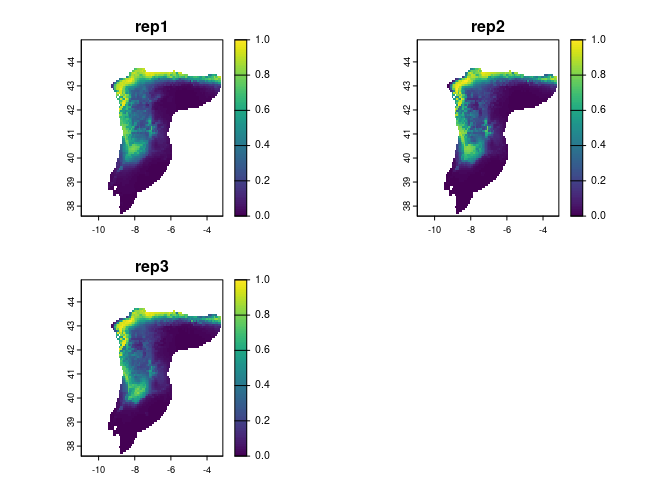
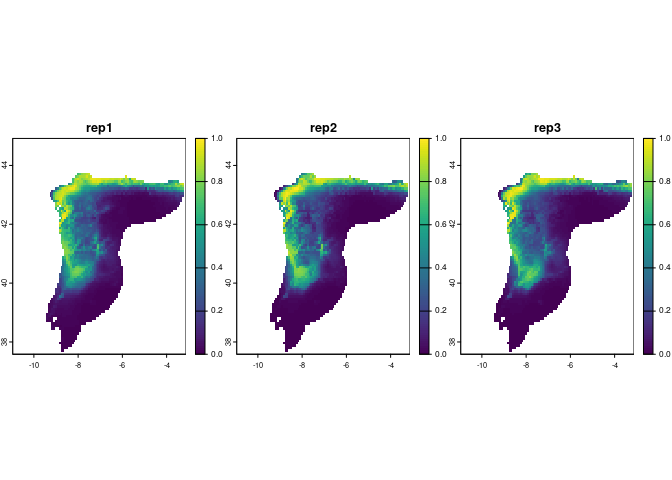
added getImportance function

diff --git a/README.md b/README.md
@@ -1,7 +1,7 @@
 
 <!-- README.md is generated from README.Rmd. Please edit that file -->
 
-# ecotrends (version 0.20)
+# ecotrends (version 0.21)
 
 <!-- badges: start -->
 <!-- badges: end -->
@@ -35,7 +35,7 @@ performs just a **basic automatic cleaning**:
 ``` r
 library(geodata)
 #> Loading required package: terra
-#> terra 1.8.5
+#> terra 1.8.10
 library(fuzzySim)
 
 occ_raw <- geodata::sp_occurrence(genus = "Chioglossa", 
@@ -43,9 +43,9 @@ occ_raw <- geodata::sp_occurrence(genus = "Chioglossa",
                                   args = c("year=2022,2024"), 
                                   fixnames = FALSE)
 #> Loading required namespace: jsonlite
-#> 487 records found
-#> 0-300-487
-#> 487 records downloaded
+#> 494 records found
+#> 0-300-494
+#> 494 records downloaded
 
 occ_clean <- fuzzySim::cleanCoords(data = occ_raw, 
                                    coord.cols = c("decimalLongitude", "decimalLatitude"), 
@@ -53,15 +53,15 @@ occ_clean <- fuzzySim::cleanCoords(data = occ_raw,
                                    uncert.limit = 10000, 
                                    abs.col = "occurrenceStatus", 
                                    plot = FALSE)
-#> 487 rows in input data
-#> 439 rows after 'rm.dup'
-#> 439 rows after 'rm.equal'
-#> 439 rows after 'rm.imposs'
-#> 439 rows after 'rm.missing.any'
-#> 439 rows after 'rm.zero.any'
-#> 438 rows after 'rm.imprec.any'
-#> 377 rows after 'rm.uncert' (with uncert.limit=10000 and uncert.na.pass=TRUE)
-#> 377 rows after 'rm.abs'
+#> 494 rows in input data
+#> 446 rows after 'rm.dup'
+#> 446 rows after 'rm.equal'
+#> 446 rows after 'rm.imposs'
+#> 446 rows after 'rm.missing.any'
+#> 446 rows after 'rm.zero.any'
+#> 445 rows after 'rm.imprec.any'
+#> 378 rows after 'rm.uncert' (with uncert.limit=10000 and uncert.na.pass=TRUE)
+#> 378 rows after 'rm.abs'
 
 occ_coords <- occ_clean[ , c("decimalLongitude", "decimalLatitude")]
 ```
@@ -152,7 +152,7 @@ sqrt(ecotrends::pixelArea(vars))
 
     summary(occ_clean$coordinateUncertaintyInMeters, na.rm = TRUE)
     #>    Min. 1st Qu.  Median    Mean 3rd Qu.    Max.    NA's 
-    #>     1.0     4.0    24.0   318.1   189.0  7601.0      58
+    #>     1.0     4.0    23.5   314.2   189.0  7601.0      58
 
 You can see there are several occurrence points with spatial uncertainty
 larger than our pixel size, so it might be a good idea to **coarsen the
@@ -196,6 +196,33 @@ Note that (if you have `fuzzySim` \>= 4.26 installed) you can add a
 survey effort, if your study area contains more pixels than `nbg`. See
 the `?getModels` help file for more details.
 
+You can compute the **permutation importance** of each variable in each
+of the output models, as well as the mean and standard deviation across
+replicates:
+
+``` r
+varimps <- getImportance(mods, nper = 10)
+#> computing year 1 of 10 (with replicates): 1981
+#> computing year 2 of 10 (with replicates): 1982
+#> computing year 3 of 10 (with replicates): 1983
+#> computing year 4 of 10 (with replicates): 1984
+#> computing year 5 of 10 (with replicates): 1985
+#> computing year 6 of 10 (with replicates): 1986
+#> computing year 7 of 10 (with replicates): 1987
+#> computing year 8 of 10 (with replicates): 1988
+#> computing year 9 of 10 (with replicates): 1989
+#> computing year 10 of 10 (with replicates): 1990
+
+head(varimps)
+#>   year  variable      rep1      rep2      rep3      mean       sd
+#> 1 1981 tmin_1981 36.596937 50.308749 47.205554 44.703747 5.870703
+#> 2 1981 tmax_1981  0.000000  0.000000  0.000000  0.000000 0.000000
+#> 3 1981  ppt_1981 26.990349  9.713286 17.904119 18.202585 7.056488
+#> 4 1981  pet_1981 32.039579 37.308126 28.731360 32.693022 3.531805
+#> 5 1981   ws_1981  4.373135  2.669838  6.158967  4.400647 1.424564
+#> 6 1982 tmin_1982 34.883164 38.737151 40.026623 37.882313 2.185079
+```
+
 Let’s now **compute the model predictions** for each year, optionally
 delimiting them to the modelled region (though you can predict on a
 larger or an entirely different region, assuming that the
@@ -213,7 +240,7 @@ preds <- ecotrends::getPredictions(rasts = vars_agg,
 
 names(preds)
 #>  [1] "1981" "1982" "1983" "1984" "1985" "1986" "1987" "1988" "1989" "1990"
-plot(preds[[1]], range = c(0, 1))
+plot(preds[[1]], range = c(0, 1), nr = 1)
 ```
 
 <img src="man/figures/README-predictions-1.png" width="100%" />
@@ -222,7 +249,7 @@ You can also map the mean prediction across replicates per year:
 
 ``` r
 preds_mean <- terra::rast(lapply(preds, terra::app, "mean"))
-plot(preds_mean)
+plot(preds_mean, nr = 2)
 ```
 
 <img src="man/figures/README-unnamed-chunk-1-1.png" width="100%" />
@@ -287,12 +314,13 @@ plot(trend,
      type = "continuous")
 ```
 
-<img src="man/figures/README-trend-1.png" width="100%" /> See
-`?trend::sens.slope` to know more about these statistics. If you want to
-compute only the slope layer (with only the significant values under
-‘alpha’), set `full = FALSE` above. Or you can compute the full result
-as above, but plot just a layer you’re interested in, and optionally add
-the region polygon:
+<img src="man/figures/README-trend-1.png" width="100%" />
+
+See `?trend::sens.slope` to know more about these statistics. If you
+want to compute only the slope layer (with only the significant values
+under ‘alpha’), set `full = FALSE` above. Or you can compute the full
+result as above, but plot just a layer you’re interested in, and
+optionally add the region polygon:
 
 ``` r
 plot(trend[["slope"]], 

diff --git a/NEWS.md b/NEWS.md
@@ -1,3 +1,11 @@
+# ecotrends 0.21
+
+-   getImportance()
+    
+    -   new function
+
+
+
 # ecotrends 0.20
 
 -   getTrend(), DESCRIPTION
